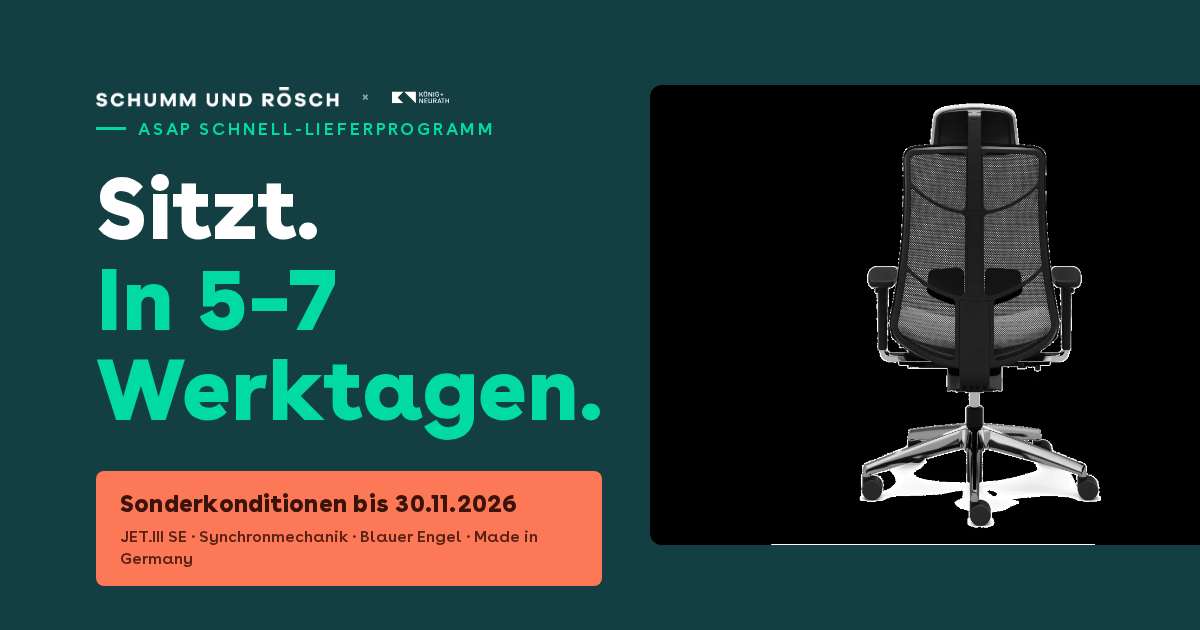
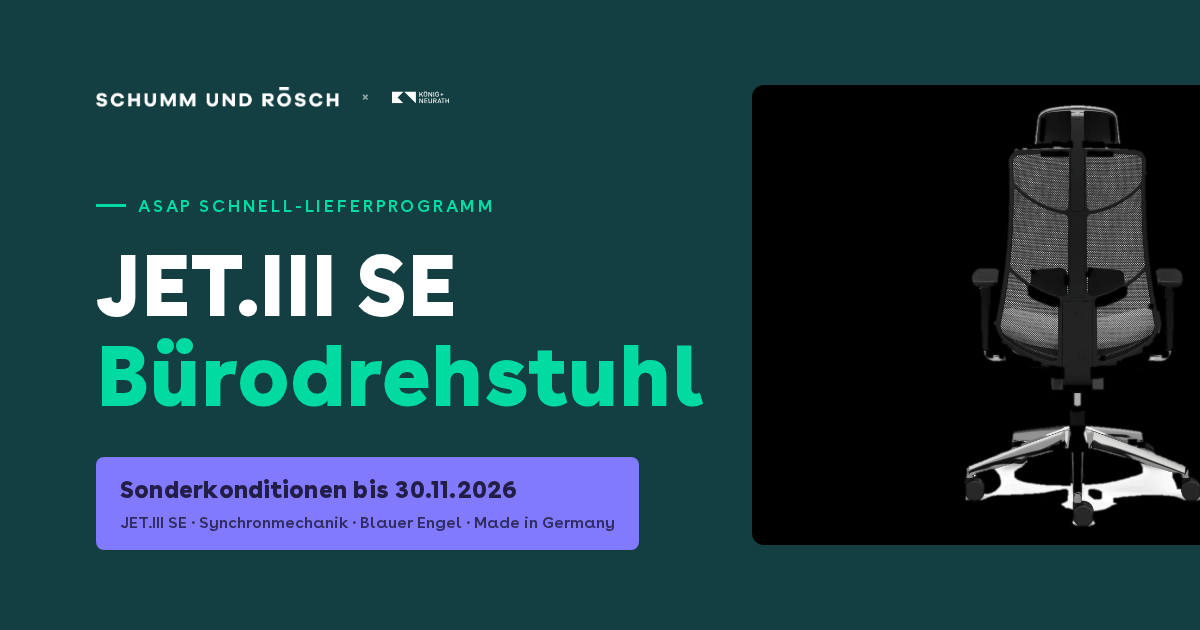
JET-LP: Headline 'JET.III SE Bürodrehstuhl', Umzugskartons-Hook entfernt, Coral→Violet (#827AFE S&R-Brandfarbe)

diff --git a/public/koenig-neurath-jet/index.html b/public/koenig-neurath-jet/index.html
@@ -5,7 +5,7 @@
 <meta name="viewport" content="width=device-width, initial-scale=1">
 <title>JET.III SE Bürodrehstuhl — in 5–7 Werktagen | König + Neurath × Schumm &amp; Rösch</title>
 <meta name="description" content="JET.III SE Bürodrehstuhl von König + Neurath: Synchronmechanik, Blauer Engel, Made in Germany — in 5–7 Werktagen bei dir. Sonderkonditionen bis 30.11.2026.">
-<meta property="og:title" content="Sitzt. In 5–7 Werktagen.">
+<meta property="og:title" content="JET.III SE Bürodrehstuhl — in 5–7 Werktagen">
 <meta property="og:description" content="Der JET.III SE Bürodrehstuhl von König + Neurath — Synchronmechanik, Blauer Engel, Made in Germany. Sonderkonditionen bis 30.11.2026.">
 <meta property="og:image" content="https://landing.schumms.com/koenig-neurath-jet/og.png">
 <meta property="og:image:width" content="1200">
@@ -39,7 +39,7 @@ j=d.createElement(s),dl=l!='dataLayer'?'&l='+l:'';j.async=true;j.src=
 :root{
   --ink:#133F42;
   --sr-green:#01DBA2;
-  --coral:#FD7857;
+  --coral:#827AFE;        /* S&R Brandfarbe "Violet" statt Coral */
   --pale:#E3F1FE;
   --text-dark:#333333;
   --placeholder:#9CA3AF;
@@ -72,7 +72,7 @@ html{scroll-behavior:smooth;}
 #sr-hero .sr-herocopy{margin-top:30px;display:flex;align-items:center;gap:16px;flex-wrap:wrap;}
 #sr-hero a.sr-ctabtn{display:inline-block;background:var(--sr-green);color:#062622;text-decoration:none;border-radius:4px;padding:16px 30px;font-size:0.875rem;font-weight:700;letter-spacing:0.1em;text-transform:uppercase;transition:filter .15s ease;}
 #sr-hero a.sr-ctabtn:hover{filter:brightness(1.08);}
-#sr-hero .sr-sticker{display:inline-flex;flex-direction:column;gap:4px;background:var(--coral);color:#3B130A;border-radius:6px;padding:12px 16px;}
+#sr-hero .sr-sticker{display:inline-flex;flex-direction:column;gap:4px;background:var(--coral);color:#221E45;border-radius:6px;padding:12px 16px;}
 #sr-hero .sr-sticker strong{font-size:0.875rem;font-weight:900;}
 #sr-hero .sr-sticker span{font-size:0.6875rem;font-weight:600;opacity:0.85;}
 #sr-hero .sr-media{position:relative;}
@@ -121,7 +121,7 @@ html{scroll-behavior:smooth;}
 #sr-aktion .sr-copy h2{font-size:clamp(1.8rem,2.8vw,2.4rem);font-weight:900;line-height:1.15;color:#fff;margin:14px 0 10px;}
 #sr-aktion .sr-copy h2 em{font-style:normal;color:var(--coral);}
 #sr-aktion .sr-copy p{font-size:1rem;line-height:1.6;color:rgba(255,255,255,0.82);max-width:52ch;}
-#sr-aktion a.sr-ctabtn{display:inline-block;background:var(--coral);color:#3B130A;text-decoration:none;border-radius:4px;padding:16px 30px;font-size:0.875rem;font-weight:700;letter-spacing:0.1em;text-transform:uppercase;transition:filter .15s ease;white-space:nowrap;}
+#sr-aktion a.sr-ctabtn{display:inline-block;background:var(--coral);color:#221E45;text-decoration:none;border-radius:4px;padding:16px 30px;font-size:0.875rem;font-weight:700;letter-spacing:0.1em;text-transform:uppercase;transition:filter .15s ease;white-space:nowrap;}
 #sr-aktion a.sr-ctabtn:hover{filter:brightness(1.06);}
 #sr-aktion .sr-note{font-size:0.75rem;color:rgba(255,255,255,0.5);margin-top:12px;}
 
@@ -142,7 +142,7 @@ html{scroll-behavior:smooth;}
 #sr-form .sr-copy h2{font-size:clamp(1.9rem,3vw,2.6rem);font-weight:900;line-height:1.15;color:#fff;margin:16px 0 12px;}
 #sr-form .sr-copy h2 .sr-hl{color:var(--sr-green);}
 #sr-form .sr-copy p{font-size:1.0625rem;line-height:1.6;color:rgba(255,255,255,0.82);max-width:44ch;}
-#sr-form .sr-copy .sr-cta{display:inline-flex;flex-direction:column;gap:4px;background:var(--coral);color:#3B130A;border-radius:6px;padding:14px 18px;margin-top:24px;max-width:fit-content;}
+#sr-form .sr-copy .sr-cta{display:inline-flex;flex-direction:column;gap:4px;background:var(--coral);color:#221E45;border-radius:6px;padding:14px 18px;margin-top:24px;max-width:fit-content;}
 #sr-form .sr-copy .sr-cta strong{font-size:0.9375rem;font-weight:900;}
 #sr-form .sr-copy .sr-cta span{font-size:0.75rem;font-weight:600;opacity:0.85;}
 #sr-form .sr-card{background:#fff;border-radius:10px;padding:36px 34px;box-shadow:0 4px 24px rgba(0,0,0,0.18);}
@@ -264,8 +264,8 @@ height="0" width="0" style="display:none;visibility:hidden"></iframe></noscript>
   <div class="sr-inner">
     <div class="sr-copy">
       <span class="eyebrow"><i></i>ASAP Schnell-Lieferprogramm</span>
-      <h1>Sitzt. <span class="sr-hl">In 5–7&nbsp;Werktagen.</span></h1>
-      <p class="sr-sub">Neue Leute ab nächster Woche? Dann sollten sie nicht auf Umzugskartons sitzen. Der JET.III SE Bürodrehstuhl von König &amp; Neurath ist in 5–7 Werktagen bei dir — hochwertig, ergonomisch, Made in Germany.</p>
+      <h1>JET.III SE <span class="sr-hl">Bürodrehstuhl</span></h1>
+      <p class="sr-sub">Der JET.III SE Bürodrehstuhl von König &amp; Neurath ist in 5–7 Werktagen bei dir — hochwertig, ergonomisch, Made in Germany.</p>
       <ul class="sr-checks">
         <li>Synchronmechanik für dynamisches Sitzen</li>
         <li>Blauer Engel — schadstoffgeprüft</li>
@@ -371,7 +371,7 @@ height="0" width="0" style="display:none;visibility:hidden"></iframe></noscript>
     </details>
     <details>
       <summary>Warum König + Neurath?</summary>
-      <p>König + Neurath fertet in Deutschland und steht für ergonomische, langlebige Arbeitsplatzmöbel. Der JET.III SE trägt den Blauen Engel und ist ein richtiger Arbeitsplatzstuhl — kein Schnellläufer-Kompromiss.</p>
+      <p>König + Neurath fertigt in Deutschland und steht für ergonomische, langlebige Arbeitsplatzmöbel. Der JET.III SE trägt den Blauen Engel und ist ein richtiger Arbeitsplatzstuhl — kein Schnellläufer-Kompromiss.</p>
     </details>
     <details>
       <summary>Was kostet der JET.III SE?</summary>

diff --git a/public/koenig-neurath-jet/og.html b/public/koenig-neurath-jet/og.html
@@ -19,7 +19,7 @@ body{width:1200px;height:630px;font-family:'Buenos Aires',system-ui,sans-serif;b
 .eyebrow i{width:30px;height:3px;background:currentColor;display:inline-block;}
 h1{font-size:5.4rem;font-weight:900;line-height:1.05;margin-top:22px;}
 h1 .accent{color:#01DBA2;}
-.badge{display:inline-flex;flex-direction:column;gap:5px;background:#FD7857;color:#3B130A;border-radius:8px;padding:16px 24px;margin-top:36px;width:fit-content;}
+.badge{display:inline-flex;flex-direction:column;gap:5px;background:#827AFE;color:#221E45;border-radius:8px;padding:16px 24px;margin-top:36px;width:fit-content;}
 .badge strong{font-size:1.5rem;font-weight:900;letter-spacing:0.01em;}
 .badge span{font-size:1rem;font-weight:600;opacity:0.85;}
 #right{height:100%;display:flex;align-items:center;justify-content:center;}
@@ -36,7 +36,7 @@ h1 .accent{color:#01DBA2;}
     </div>
     <div>
       <span class="eyebrow"><i></i>ASAP Schnell-Lieferprogramm</span>
-      <h1>Sitzt.<br><span class="accent">In 5–7 Werktagen.</span></h1>
+      <h1>JET.III SE<br><span class="accent">Bürodrehstuhl</span></h1>
       <div class="badge">
         <strong>Sonderkonditionen bis 30.11.2026</strong>
         <span>JET.III SE · Synchronmechanik · Blauer Engel · Made in Germany</span>
